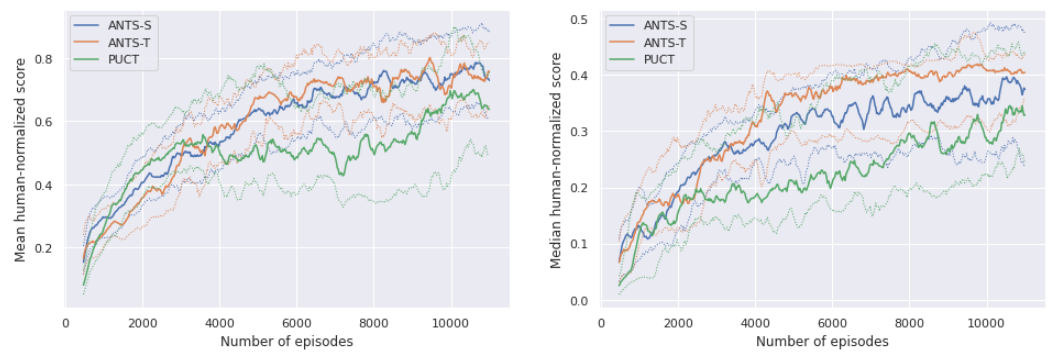
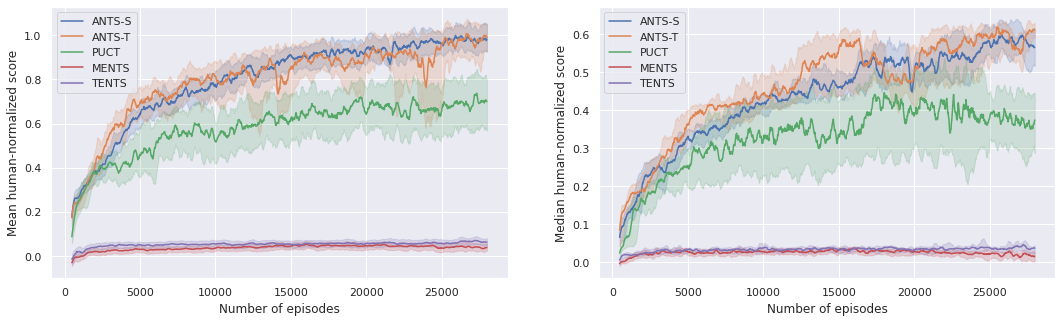
Readme update

diff --git a/README.md b/README.md
@@ -1,6 +1,6 @@
 # Adaptive Entropy Tree Search
 
-This repository contains code for the paper Robust Planning using Adaptive Entropy Tree Search, under review for NeurIPS 2021.
+This repository contains code for the paper Planning and Learning using Adaptive Entropy Tree Search, accepted for IJCNN 2022.
 
 ## Install
 
@@ -94,5 +94,5 @@ python -m alpacka.runner \
 ### Closed-loop training
 ![](images/e2e.png)
 
-### Ablations
-![](images/ablations.png)
+### Robustness
+![](images/robustness.png)
